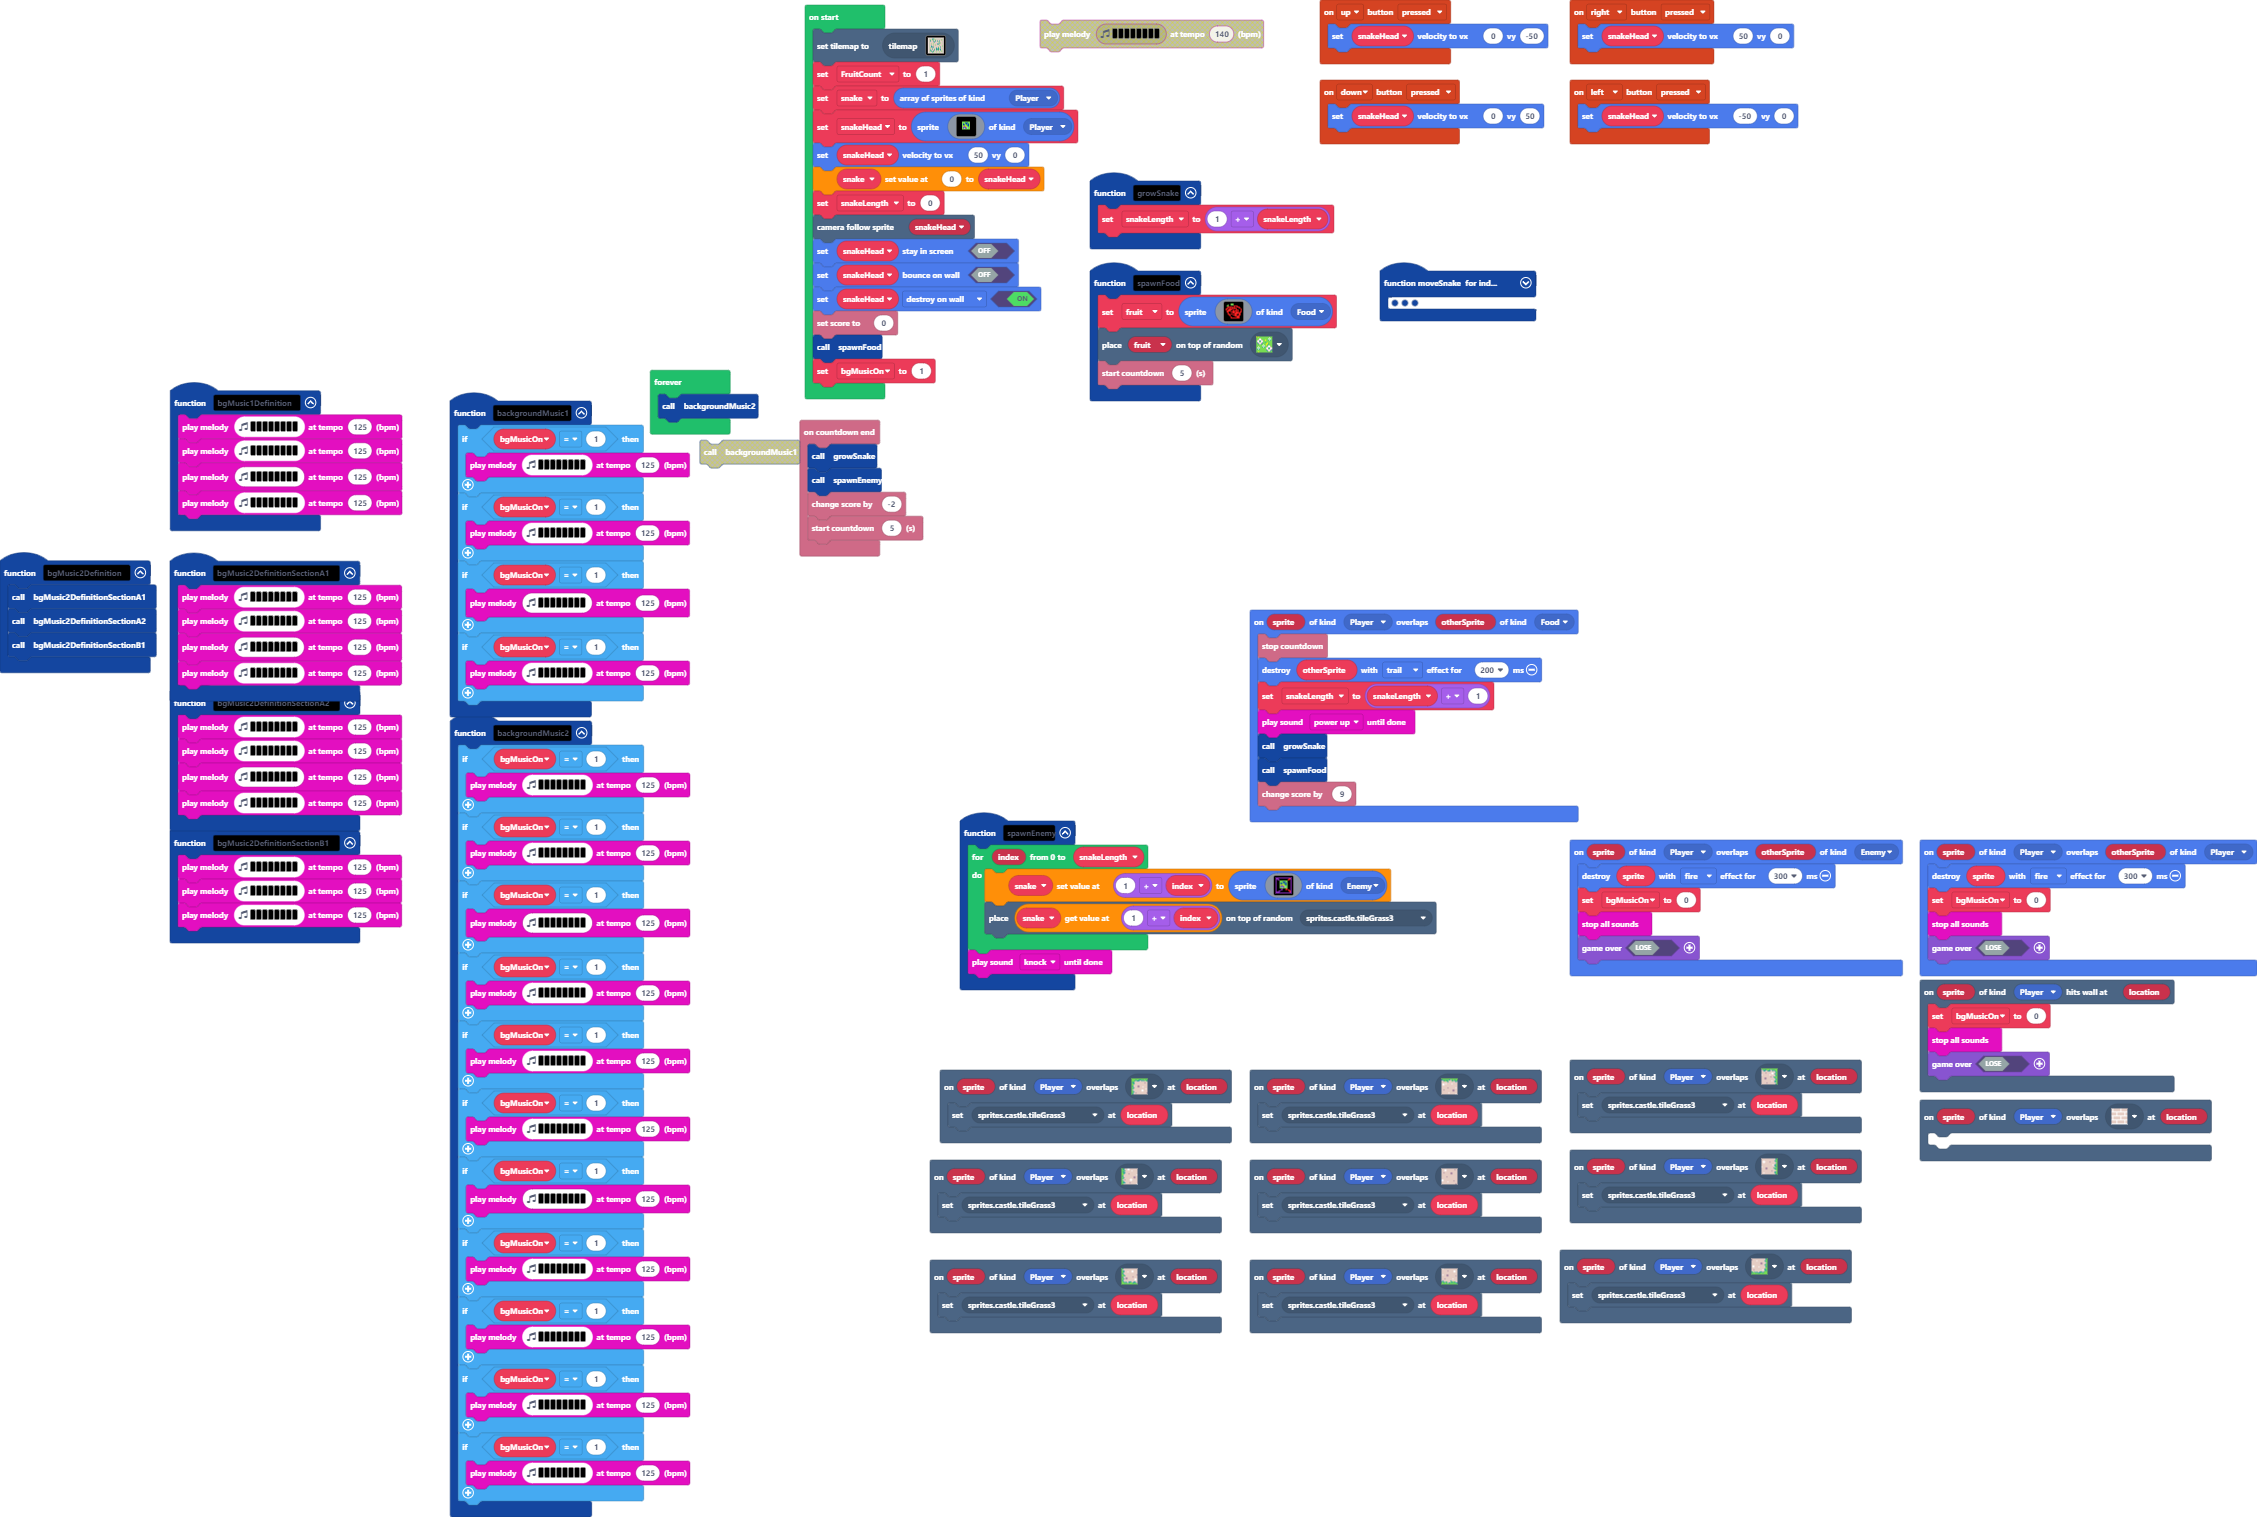
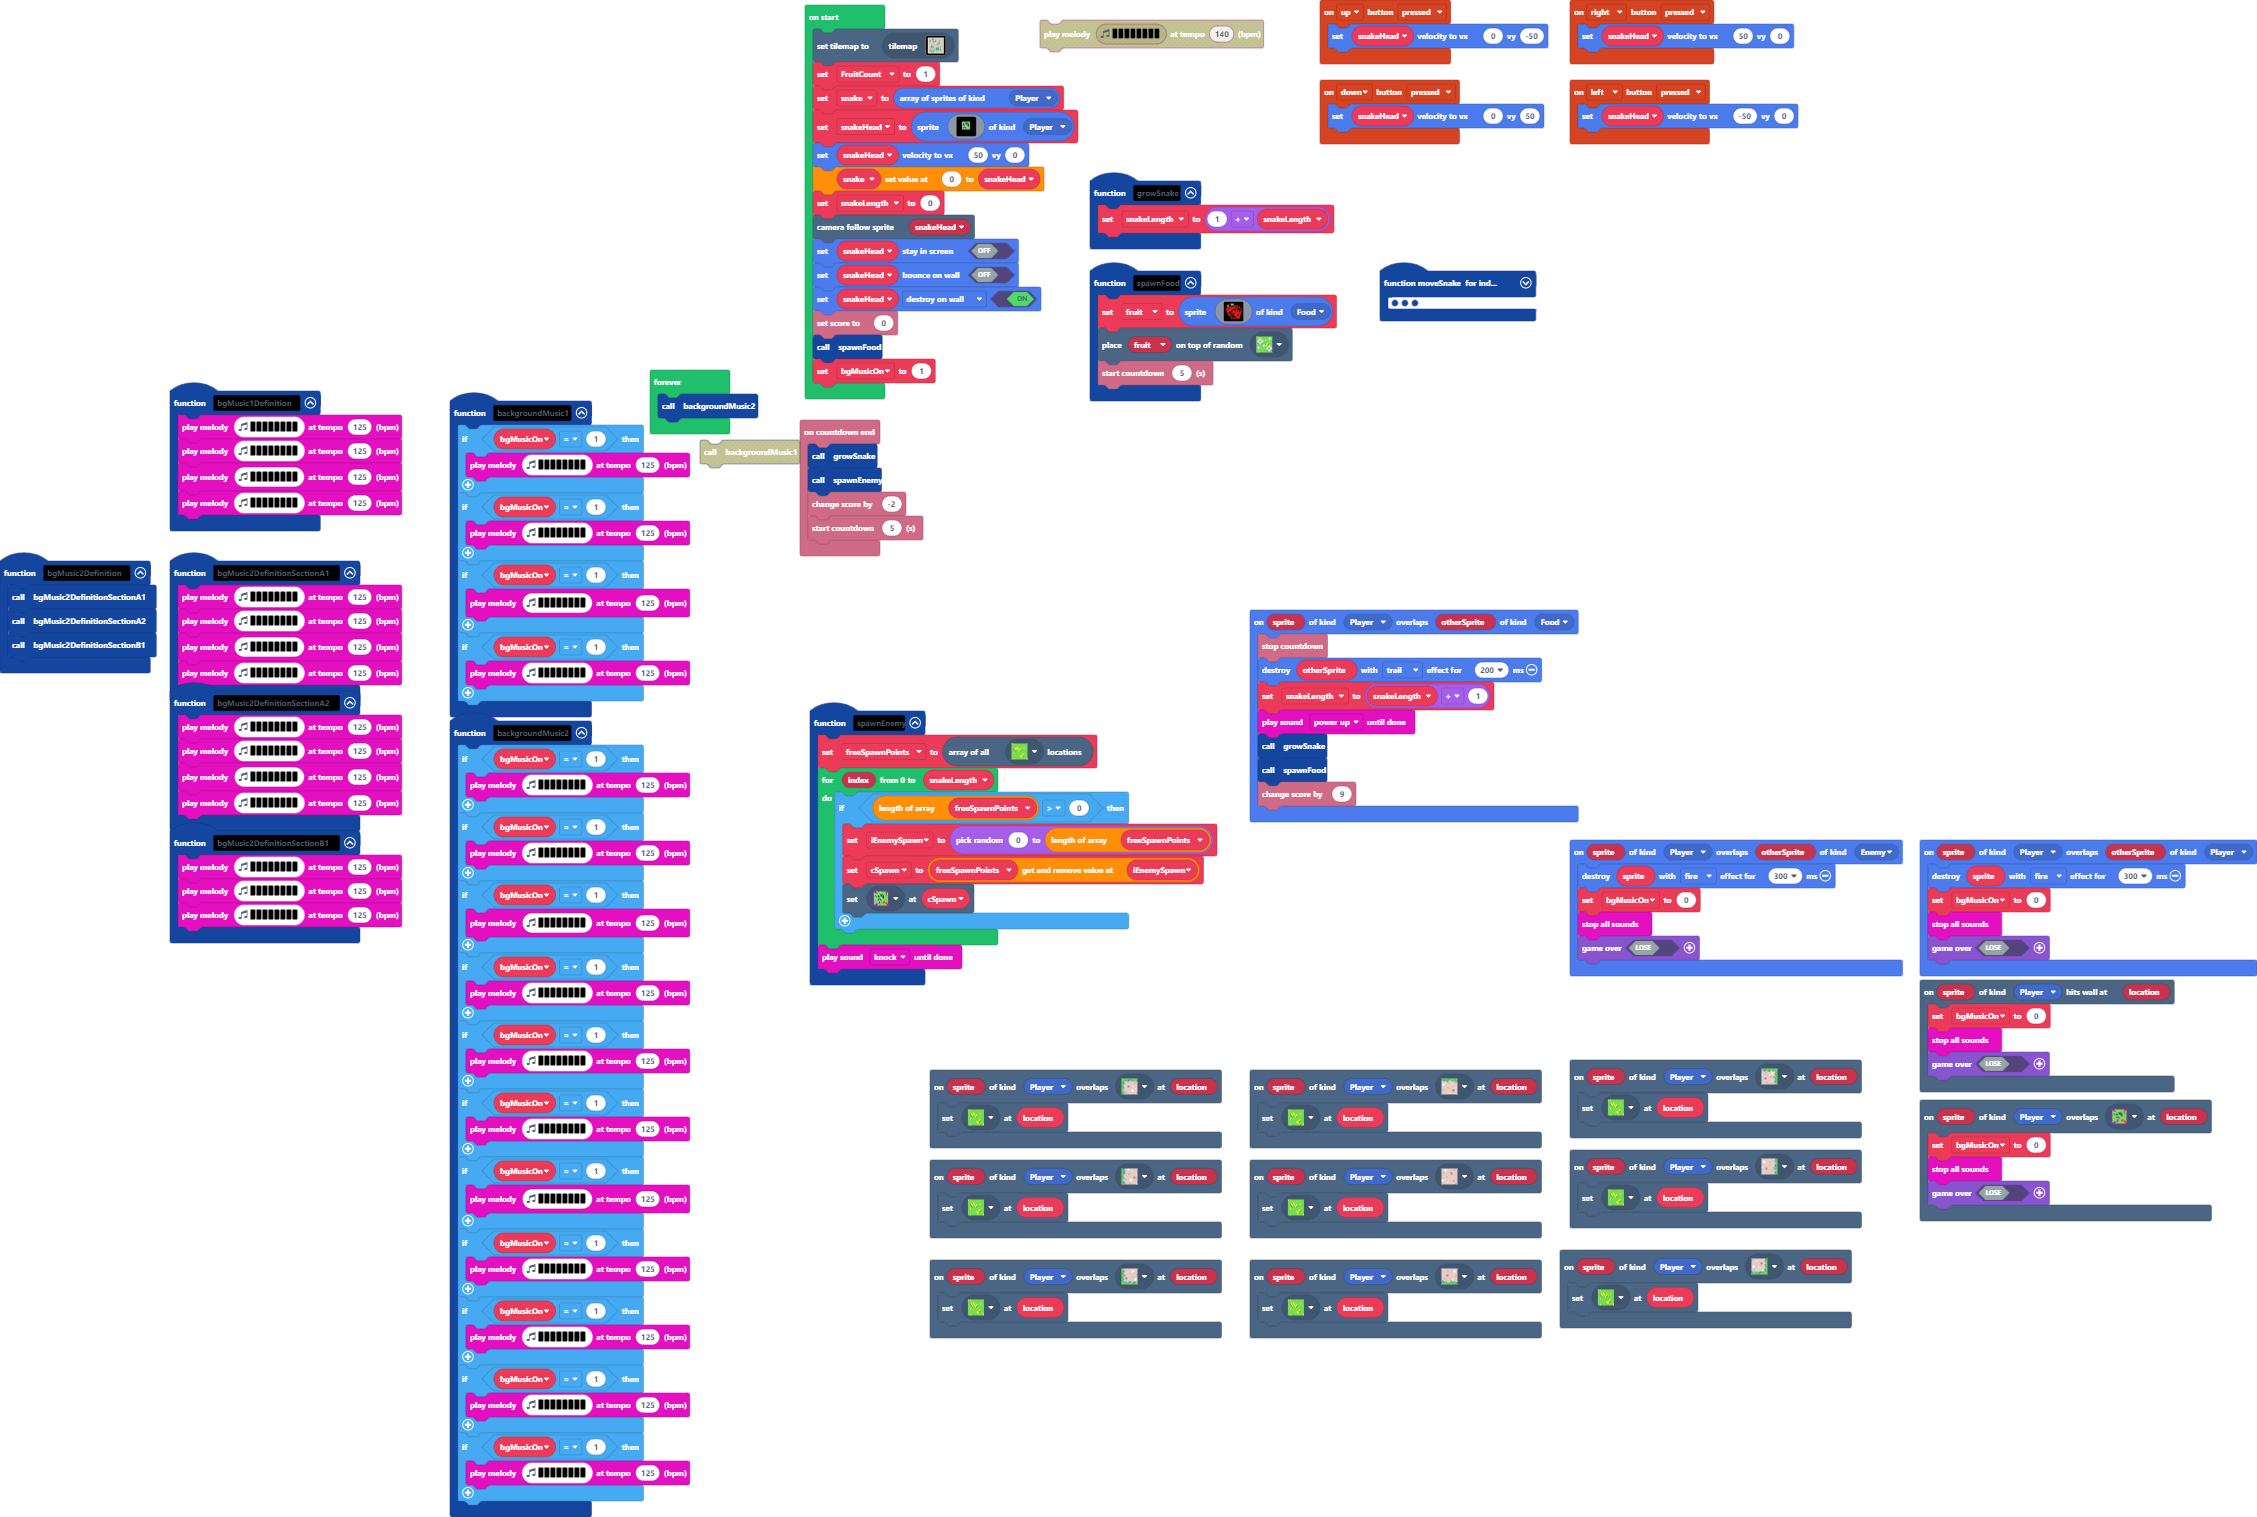
use no-go tiles instead of enemy sprites for performance improvement

diff --git a/tilemap.g.ts b/tilemap.g.ts
@@ -2,6 +2,8 @@
 namespace myTiles {
     //% fixedInstance jres blockIdentity=images._tile
     export const transparency16 = image.ofBuffer(hex``);
+    //% fixedInstance jres blockIdentity=images._tile
+    export const tile2 = image.ofBuffer(hex``);
 
     helpers._registerFactory("tilemap", function(name: string) {
         switch(helpers.stringTrim(name)) {
@@ -43,8 +45,27 @@ namespace myTiles {
 . . . . . . . . . . . . . . . . 
 . . . . . . . . . . . . . . . . 
 `, [myTiles.transparency16], TileScale.Sixteen);
+            case "level4":
+            case "level4":return tiles.createTilemap(hex`1000100000000000000000000000000000000000000000000000000000000000000000000000000000000000000000000000000000000000000000000000000000000000000000000000000000000000000000000000000000000000000000000000000000000000000000000000000000000000000000000000000000000000000000000000000000000000000000000000000000000000000000000000000000000000000000000000000000000000000000000000000000000000000000000000000000000000000000000000000000000000000000000000000000000000000000000000000000000000000000000000000000000000000000000000000000000000`, img`
+. . . . . . . . . . . . . . . . 
+. . . . . . . . . . . . . . . . 
+. . . . . . . . . . . . . . . . 
+. . . . . . . . . . . . . . . . 
+. . . . . . . . . . . . . . . . 
+. . . . . . . . . . . . . . . . 
+. . . . . . . . . . . . . . . . 
+. . . . . . . . . . . . . . . . 
+. . . . . . . . . . . . . . . . 
+. . . . . . . . . . . . . . . . 
+. . . . . . . . . . . . . . . . 
+. . . . . . . . . . . . . . . . 
+. . . . . . . . . . . . . . . . 
+. . . . . . . . . . . . . . . . 
+. . . . . . . . . . . . . . . . 
+. . . . . . . . . . . . . . . . 
+`, [myTiles.transparency16], TileScale.Sixteen);
             case "level1":
[2 lines of base64/hex data omitted]
 2 2 2 2 2 2 2 2 2 2 2 2 2 2 2 2 
 2 . . . . . . . . . . . . . . 2 
 2 . . . . . . . . . . . . . . 2 
@@ -61,7 +82,7 @@ namespace myTiles {
 2 . . . . . . . . . . . . . . 2 
 2 . . . . . . . . . . . . . . 2 
 2 2 2 2 2 2 2 2 2 2 2 2 2 2 2 2 
-`, [myTiles.transparency16,sprites.castle.tileGrass2,sprites.builtin.brick,sprites.castle.tilePath1,sprites.castle.tilePath4,sprites.castle.tilePath8,sprites.castle.tilePath6,sprites.castle.tilePath3,sprites.castle.tilePath2,sprites.castle.tilePath5,sprites.castle.tileDarkGrass1,sprites.castle.tileDarkGrass3,sprites.castle.tilePath7,sprites.castle.tilePath9], TileScale.Sixteen);
+`, [myTiles.transparency16,sprites.castle.tileGrass2,sprites.builtin.brick,sprites.castle.tilePath1,sprites.castle.tilePath4,sprites.castle.tilePath8,sprites.castle.tilePath6,sprites.castle.tilePath3,sprites.castle.tilePath2,sprites.castle.tilePath5,sprites.castle.tileDarkGrass1,sprites.castle.tileDarkGrass3,sprites.castle.tilePath7,sprites.castle.tilePath9,sprites.castle.tileGrass1,sprites.castle.tileGrass3], TileScale.Sixteen);
         }
         return null;
     })
@@ -69,6 +90,8 @@ namespace myTiles {
     helpers._registerFactory("tile", function(name: string) {
         switch(helpers.stringTrim(name)) {
             case "transparency16":return transparency16;
+            case "noPlayerAllowedTile":
+            case "tile2":return tile2;
         }
         return null;
     })

diff --git a/main.ts b/main.ts
@@ -87,11 +87,13 @@ function spawnFood () {
     tiles.placeOnRandomTile(fruit, sprites.castle.tileGrass2)
     info.startCountdown(5)
 }
+scene.onOverlapTile(SpriteKind.Player, assets.tile`noPlayerAllowedTile`, function (sprite, location) {
+    bgMusicOn = 0
+    music.stopAllSounds()
+    game.over(false)
+})
 scene.onOverlapTile(SpriteKind.Player, sprites.castle.tilePath2, function (sprite, location) {
     tiles.setTileAt(location, sprites.castle.tileGrass3)
-})
-scene.onOverlapTile(SpriteKind.Player, sprites.builtin.brick, function (sprite, location) {
-	
 })
 controller.left.onEvent(ControllerButtonEvent.Pressed, function () {
     snakeHead.setVelocity(-50, 0)
@@ -176,26 +178,13 @@ scene.onOverlapTile(SpriteKind.Player, sprites.castle.tilePath7, function (sprit
     tiles.setTileAt(location, sprites.castle.tileGrass3)
 })
 function spawnEnemy () {
+    freeSpawnPoints = tiles.getTilesByType(sprites.castle.tileGrass3)
     for (let index = 0; index <= snakeLength; index++) {
-        snake[1 + index] = sprites.create(img`
-            a a a a a a a a a a a a a a a a 
-            a a a . . . . . . . . . . 2 2 a 
-            a . a a . . . . . . . . 2 2 . a 
-            a . . . 7 7 7 7 7 7 7 7 . . . a 
-            a . . . 7 7 7 8 8 8 7 7 . . . a 
-            a . . . 7 8 7 7 8 7 8 7 . . . a 
-            a . . . 7 8 8 7 7 8 8 7 . . . a 
-            a . . . 7 5 5 5 7 7 8 7 . . . a 
-            a . . . 7 a 8 a 5 7 7 7 . . . a 
-            a . . . 7 a 9 a a 9 7 7 . . . a 
-            a . . . 7 7 7 7 7 7 7 7 . . . a 
-            a . . . . . a . . . 2 2 . . . a 
-            a . . . . a a . . . 2 . 2 2 . a 
-            a . . a a . . . . . . . . 2 2 a 
-            a a a a . . . . . . . . . . 2 a 
-            a a a a a a a a a a a a a a a a 
-            `, SpriteKind.Enemy)
-        tiles.placeOnRandomTile(snake[1 + index], sprites.castle.tileGrass3)
+        if (freeSpawnPoints.length > 0) {
+            iEnemySpawn = randint(0, freeSpawnPoints.length)
+            cSpawn = freeSpawnPoints.removeAt(iEnemySpawn)
+            tiles.setTileAt(cSpawn, assets.tile`noPlayerAllowedTile`)
+        }
     }
     music.knock.playUntilDone()
 }
@@ -208,6 +197,9 @@ sprites.onOverlap(SpriteKind.Player, SpriteKind.Enemy, function (sprite, otherSp
     music.stopAllSounds()
     game.over(false)
 })
+let cSpawn: tiles.Location = null
+let iEnemySpawn = 0
+let freeSpawnPoints: tiles.Location[] = []
 let fruit: Sprite = null
 let bgMusicOn = 0
 let snakeLength = 0

diff --git a/images.g.ts b/images.g.ts
@@ -22,6 +22,44 @@ namespace myImages {
 . . . . . . . . . . . . . . . . 
 . . . . . . . . . . . . . . . . 
 `;
+            case "image2":
+            case "NoPlayerSquare":return img`
+a a a a a a a a a a a a a a a a 
+a a a . . . . . . . . . . 2 2 a 
+a . a a . . . . . . . . 2 2 . a 
+a . . . 7 7 7 7 7 7 7 7 . . . a 
+a . . . 7 7 7 8 8 8 7 7 . . . a 
+a . . . 7 8 7 7 8 7 8 7 . . . a 
+a . . . 7 8 8 7 7 8 8 7 . . . a 
+a . . . 7 5 5 5 7 7 8 7 . . . a 
+a . . . 7 a 8 a 5 7 7 7 . . . a 
+a . . . 7 a 9 a a 9 7 7 . . . a 
+a . . . 7 7 7 7 7 7 7 7 . . . a 
+a . . . . . a . . . 2 2 . . . a 
+a . . . . a a . . . 2 . 2 2 . a 
+a . . a a . . . . . . . . 2 2 a 
+a a a a . . . . . . . . . . 2 a 
+a a a a a a a a a a a a a a a a 
+`;
+            case "y~$L{S4[X(D}l~1ol%~V":
+            case "BerryFruity":return img`
+. . f f . 7 7 7 . . . . . . . . 
+. . 7 f f 7 7 7 . . . . . . . . 
+. 7 7 . . f f f 2 2 2 2 . . . . 
+. . 2 2 2 2 2 f 2 . . 2 2 2 . . 
+. 2 2 . 2 . 2 2 2 2 2 . . 2 2 . 
+2 2 . 2 2 2 2 . 2 . 2 . . . . 2 
+2 . 2 2 2 2 . 2 . . 2 2 2 . . 2 
+. 2 2 2 2 . . 2 2 2 2 . 2 . . 2 
+. 2 2 . . 2 2 2 2 . 2 2 2 . 2 2 
+. . 2 . . . . 2 2 2 2 2 2 2 2 . 
+. . 2 2 . 2 2 . . 2 2 2 . 2 2 . 
+. . . 2 2 . . 2 2 2 2 . . 2 2 . 
+. . . . 2 . . . . 2 2 2 2 2 . . 
+. . . . . 2 . . . . . 2 2 2 . . 
+. . . . . 2 2 2 2 2 2 2 2 2 . . 
+. . . . . . . . . . . . . . . . 
+`;
         }
         return null;
     })
